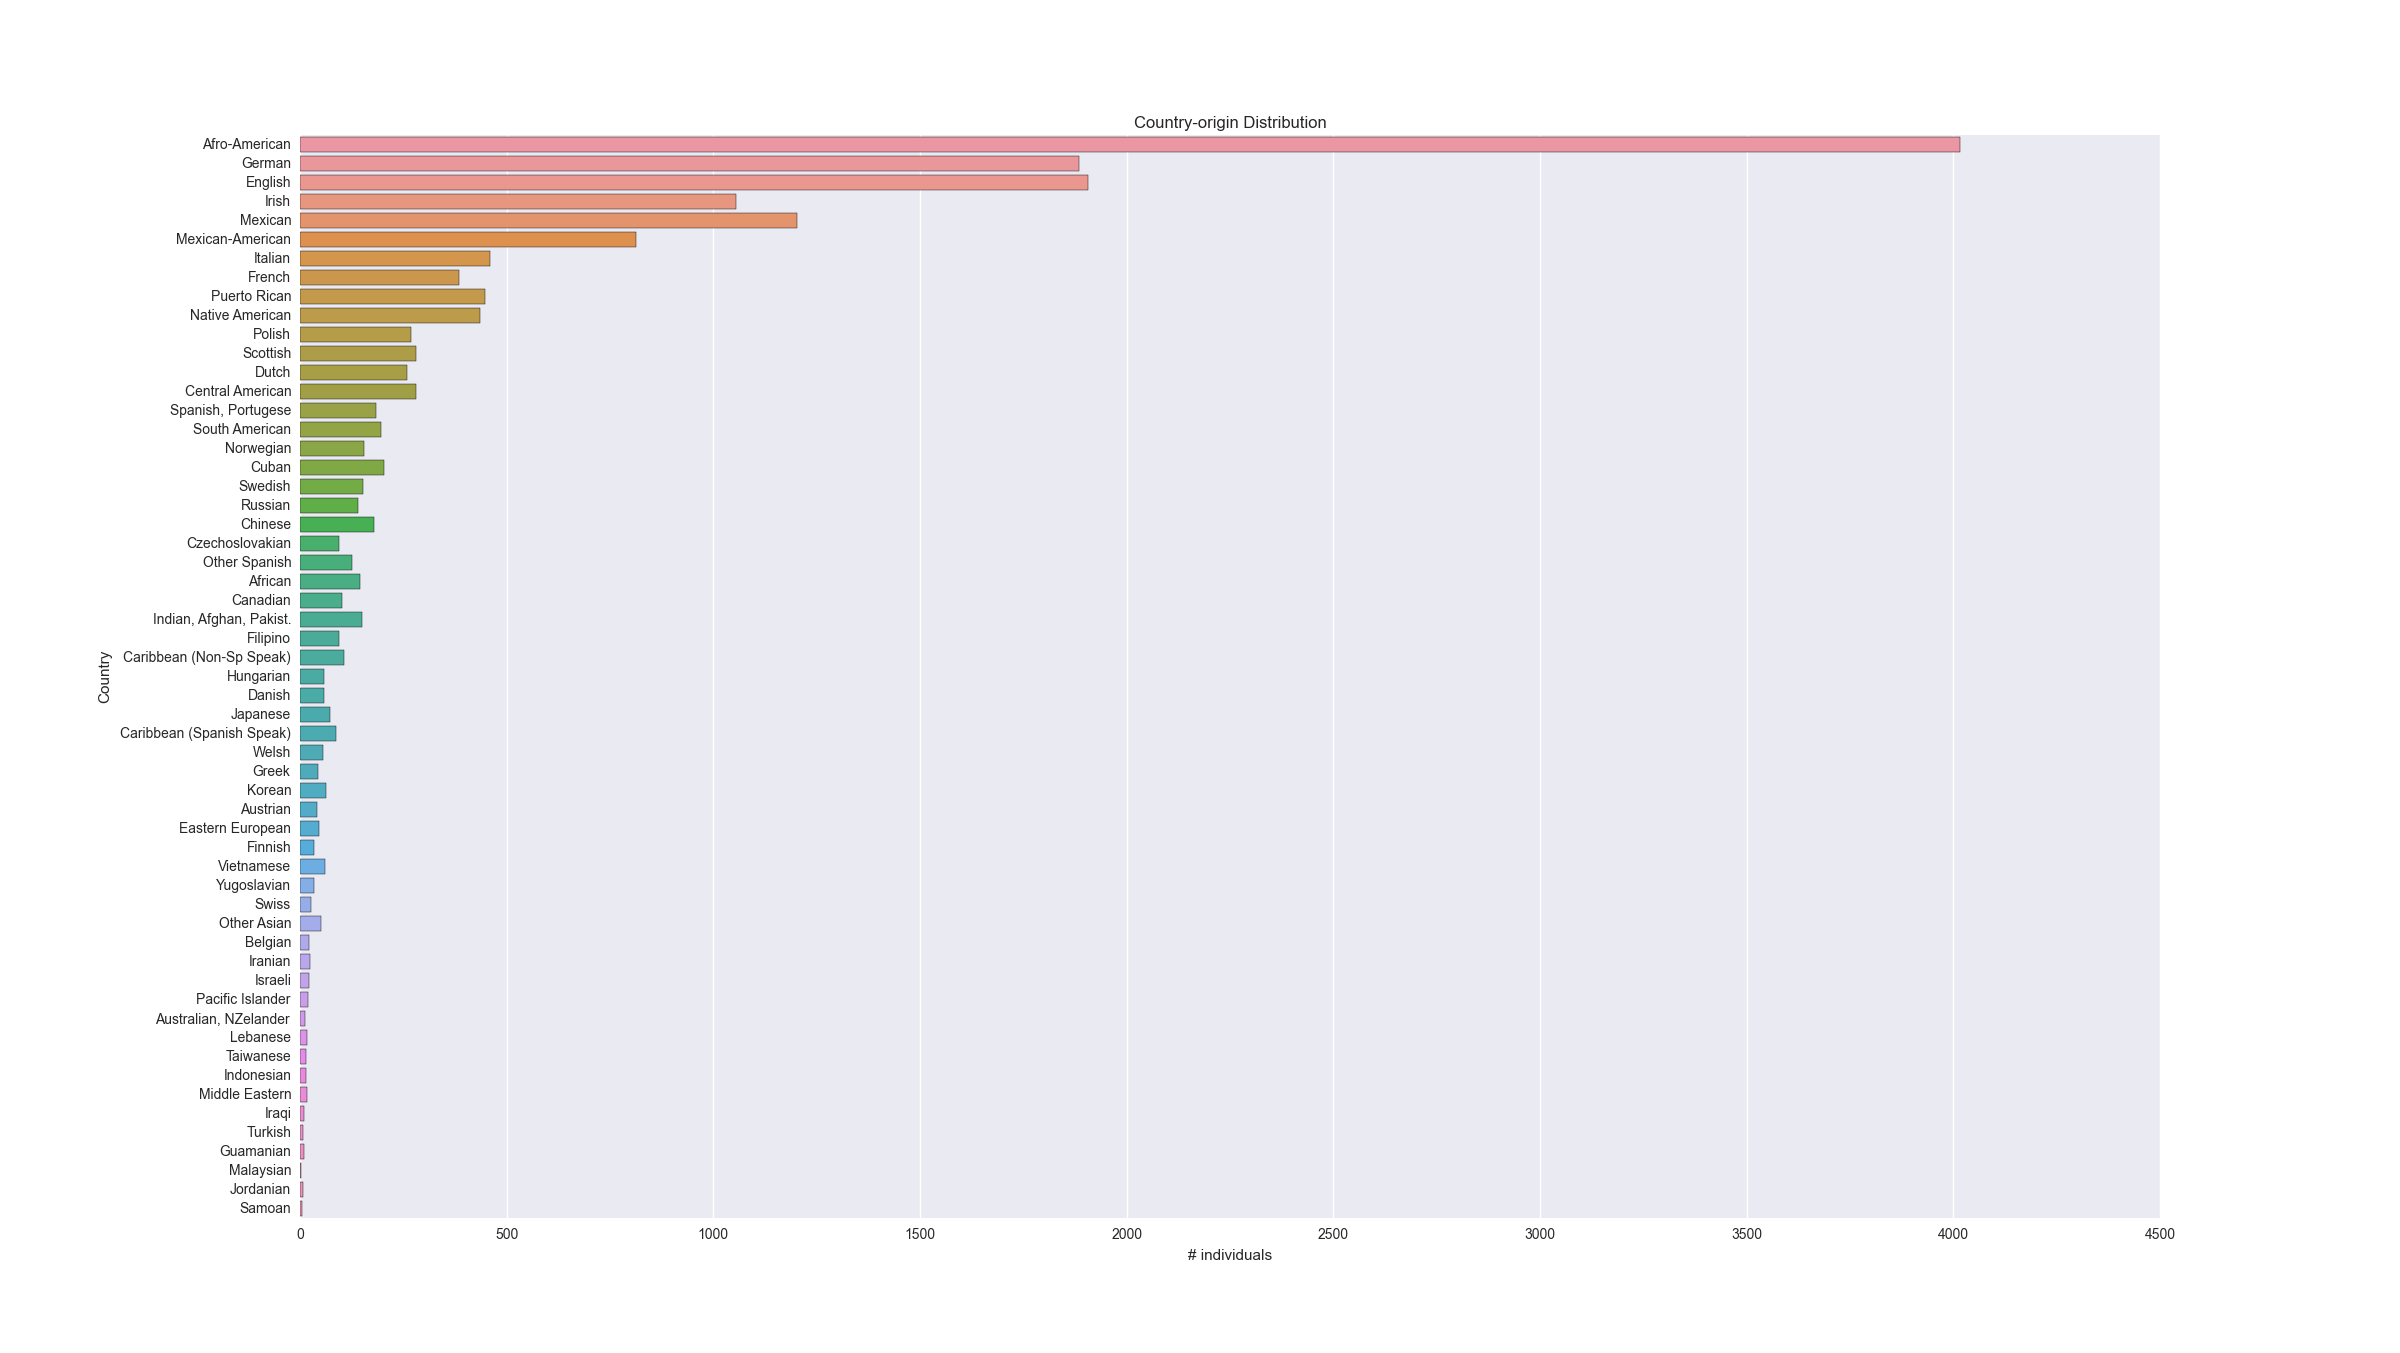
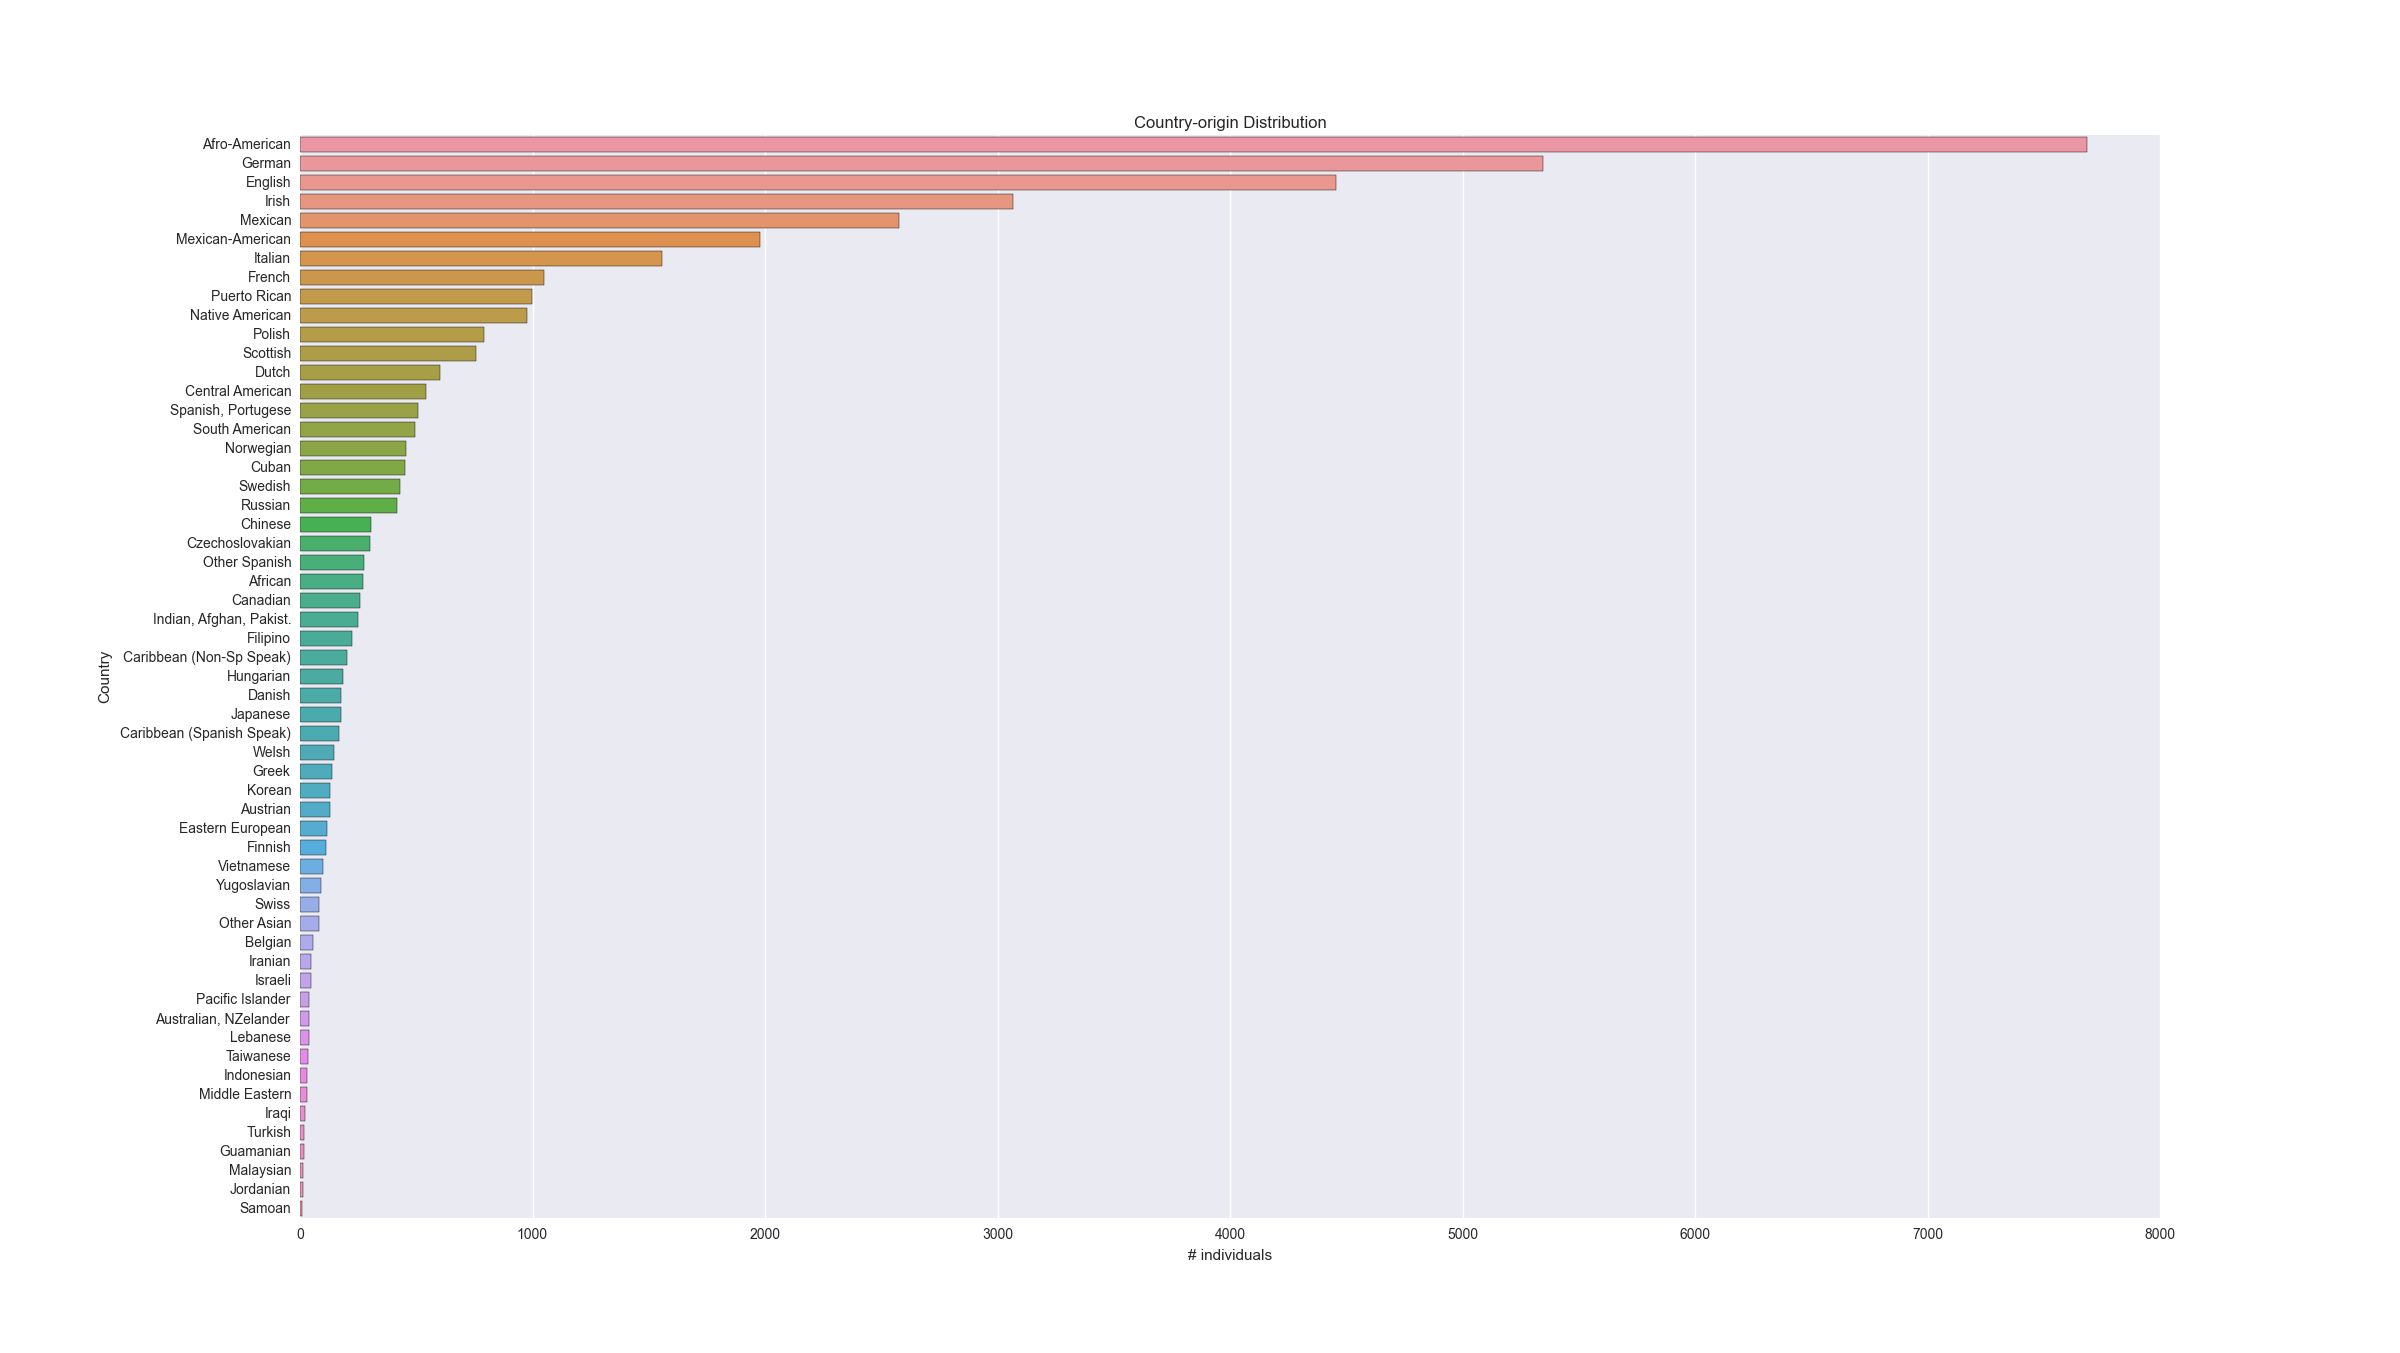
Last version

Changed region(s): [[0.125, 0.0931, 0.6562, 0.6519], [0.8125, 0.0931, 0.875, 0.1242]]

diff --git a/research.assignment3.py b/research.assignment3.py
@@ -450,7 +450,7 @@ country_order = pandas.DataFrame(data = sub['country_code'].value_counts(sort=Fa
                              dropna = True), columns = ['frequency'])
 country_order['name'] = country_list
 country_order = country_order.sort(columns = 'frequency', ascending = False)
-sns.countplot(y='country_name', data = sub.dropna(), order=country_order['name'])
+sns.countplot(y='country_name', data = sub, order=country_order['name'])
 
 plt.title('Country-origin Distribution')
 plt.ylabel('Country')
